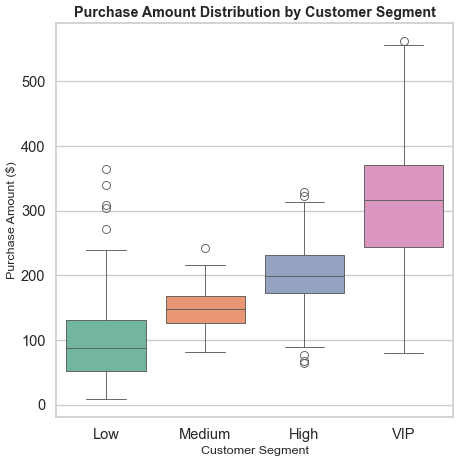
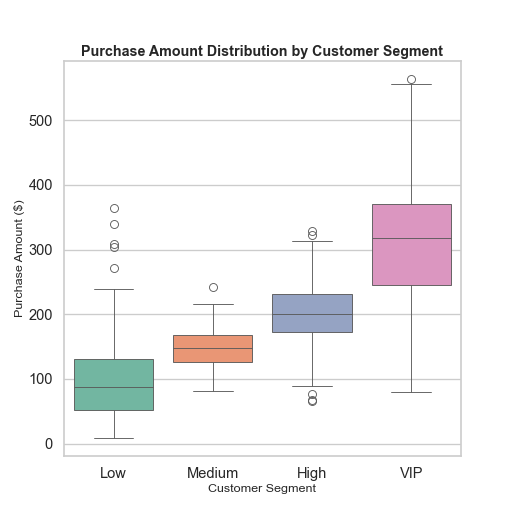
Adjust chart dimensions

diff --git a/chart.py b/chart.py
@@ -36,5 +36,5 @@ plt.xlabel('Customer Segment', fontsize=14)
 plt.ylabel('Purchase Amount ($)', fontsize=14)
 
 # Save the plot as PNG with exact size
-plt.savefig('chart.png', dpi=64, bbox_inches='tight')
+plt.savefig('chart.png', dpi=64)
 plt.close()
